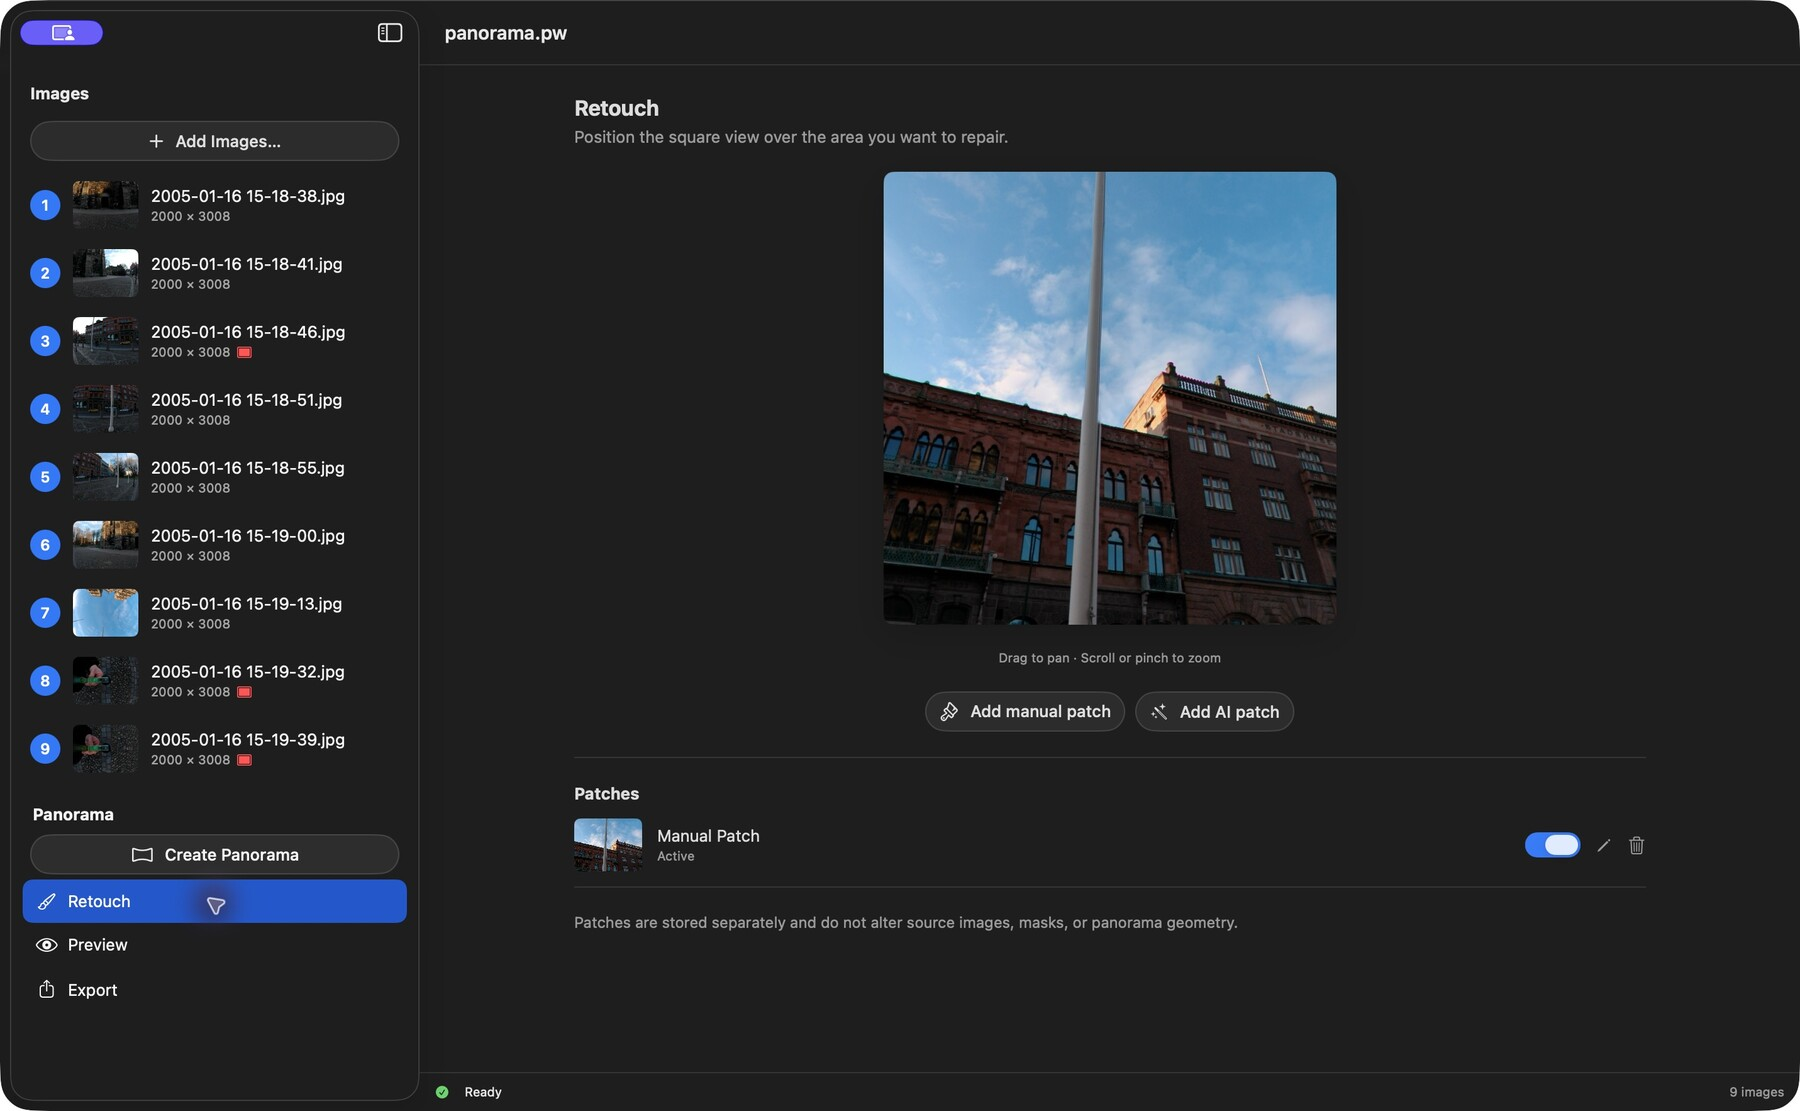
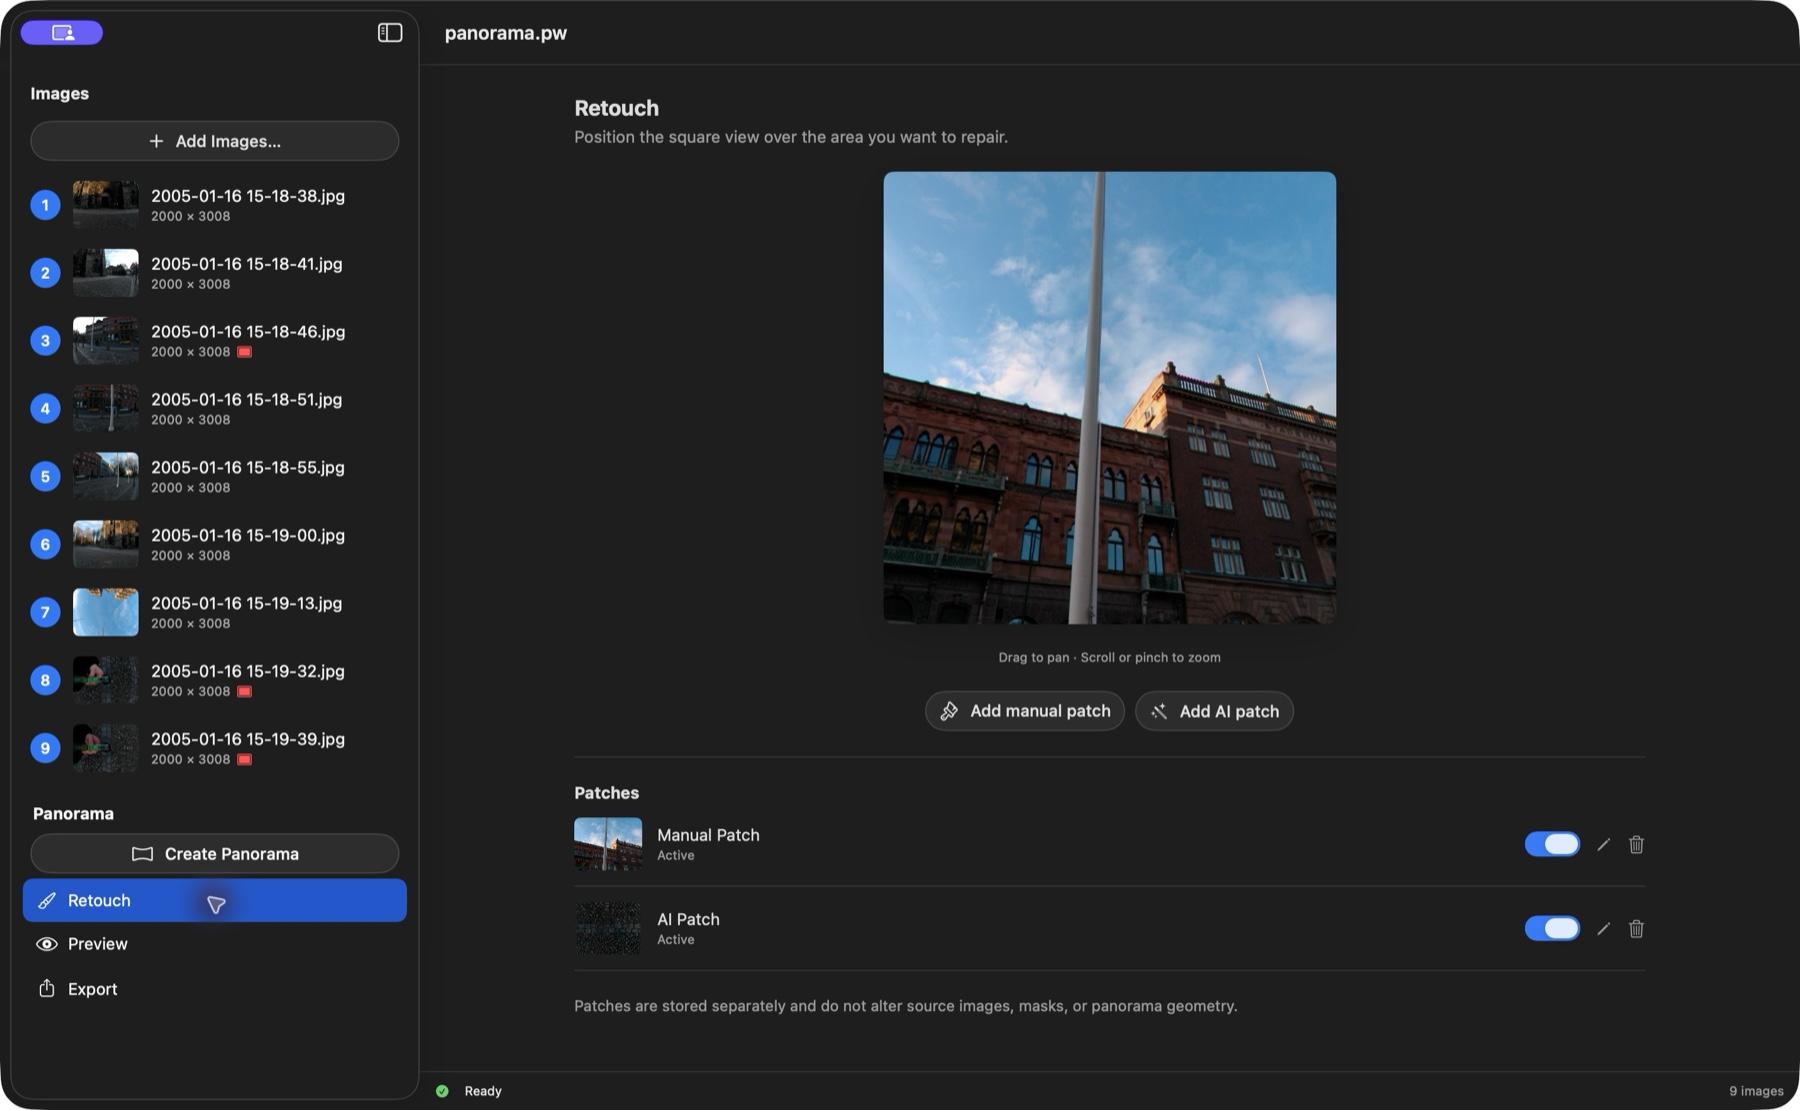
Update help for example A AI ground repair

Changed region(s): [[0.3111, 0.8883, 0.6844, 0.9189], [0.3111, 0.827, 0.6844, 0.8577], [0.84, 0.827, 0.9022, 0.8577]]

diff --git a/docs/examples.md b/docs/examples.md
@@ -20,13 +20,19 @@ The saved panoramas and patches are ready to explore. No API key is needed to vi
 
 ## A — Church square
 
-**9 JPEG photographs · 2 Exclude masks · 1 Include mask · 1 manual patch**
+**9 JPEG photographs · 2 Exclude masks · 1 Include mask · 1 manual patch · 1 AI patch**
 
 ![Example A open in PanoWizard Preview](Images/Examples/a-preview.jpg)
 
 Start here for [source masks](HowTo/Masking/index.html): select `2005-01-16 15-19-32.jpg` or `15-19-39.jpg` and choose **Exclude** to inspect the red masks over the hand and level. Select `2005-01-16 15-18-46.jpg` and choose **Include** to see the green mask preferring an intact pole.
 
 Open **Retouch** to find the saved **Manual Patch**. Its thumbnail locates the repaired pole in Preview. Follow the [manual patch guide](HowTo/ManualPatch/index.html) to compare it with the unpatched view.
+
+A also contains an **AI Patch** repairing the cobblestone ground directly below the camera. Click its thumbnail to look down at the repair, then toggle it off and on to compare. Both saved patches can be inspected without an API key. See the [AI patch guide](HowTo/AIPatch/index.html) before generating a new result.
+
+![Example A with its saved AI ground repair visible](Images/Examples/a-ai-after.jpg)
+
+*The cobblestone repair is generated content, not recovered source pixels.*
 
 <a id="example-b"></a>
 

diff --git a/docs/HowTo/ManualPatch/index.md b/docs/HowTo/ManualPatch/index.md
@@ -4,9 +4,9 @@ A manual patch repairs a small area of an otherwise finished panorama using an e
 
 ## Explore the saved patch in example A
 
-[Download and open example A](../../examples.html#example-a), then choose **Retouch**. The saved **Manual Patch** repairs a local area at the pole. Use its switch to hide or show it; click its thumbnail to locate that exact area in Preview. Return to Retouch to toggle it again.
+[Download and open example A](../../examples.html#example-a), then choose **Retouch**. The saved **Manual Patch** repairs a local area at the pole. Use its switch to hide or show it; click its thumbnail to locate that exact area in Preview. Return to Retouch to toggle it again. A also has an independent **AI Patch** on the ground below the camera; leave that enabled while comparing the manual repair.
 
-![Example A's Retouch workspace and saved Manual Patch](../../Images/Examples/a-retouch.jpg)
+![Example A's Retouch workspace with its saved manual and AI patches](../../Images/Examples/a-retouch.jpg)
 
 ![The same pole view with the manual patch disabled on the left and enabled on the right](../../Images/Examples/a-manual-comparison.jpg)
 

diff --git a/docs/HowTo/AIPatch/index.md b/docs/HowTo/AIPatch/index.md
@@ -52,6 +52,8 @@ Inspect lines, textures, color, and the repair boundary in **After**. AI can inv
 
 *The red mask selects the camera support in Before; After contains the saved generated floor repair. An AI repair is generated content, not recovered source pixels.*
 
+[Example A](../../examples.html#example-a) also includes a saved AI repair of the cobblestone ground below the camera, alongside its manual pole repair. Click the **AI Patch** thumbnail in A to locate it, then compare with the patch switched off and on.
+
 [Example B](../../examples.html#example-b) includes a more ambitious AI reconstruction of the Eiffel Tower from above, alongside a manual patch. Inspect it as generated content, not as evidence of the tower's exact appearance.
 
 In **Patches**, use the switch to hide/show a repair, click its thumbnail to locate it, or use the pencil/trash button to edit/delete it. Finish source corrections first: changing sources or masks clears patches. Save the project to keep an accepted repair.

diff --git a/examples/README.md b/examples/README.md
@@ -2,11 +2,11 @@
 
 Three complete examples for App Store Review and learning PanoWizard. Each folder contains the source photographs and a saved `panorama.pw` project with a finished panorama.
 
-| Example | Scene | Source photographs | Project to open |
-| --- | --- | --- | --- |
-| A | Outdoor square and church | 9 JPEGs | `A/panorama.pw` |
-| B | View over Paris | 8 JPEGs | `B/panorama.pw` |
-| C | Bathroom interior | 7 JPEGs | `C/panorama.pw` |
+| Example | Scene | Source photographs | Saved retouching | Project to open |
+| --- | --- | --- | --- | --- |
+| A | Outdoor square and church | 9 JPEGs | Manual pole repair and AI ground repair | `A/panorama.pw` |
+| B | View over Paris | 8 JPEGs | Manual sky repair and AI ground reconstruction | `B/panorama.pw` |
+| C | Bathroom interior | 7 JPEGs | AI floor repair | `C/panorama.pw` |
 
 Keep each example folder intact. Its source photographs must stay beside
 `panorama.pw`. You can move or copy the whole A, B, or C folder anywhere on your Mac.

diff --git a/docs/getting-started.md b/docs/getting-started.md
@@ -14,7 +14,7 @@ You do not need to stitch again to explore the saved result. Keep the source JPE
 
 Choose **Panorama → Preview**. Drag to look around; scroll or pinch to zoom. Look up at the sky, down at the ground, and around the full circle. **View → Reset View** resets the view.
 
-The [Masks guide](HowTo/Masking/index.html) explains A's red and green source masks. Open **Retouch** to inspect its saved manual patch. For an AI floor repair, open [example C](examples.html#example-c).
+The [Masks guide](HowTo/Masking/index.html) explains A's red and green source masks. Open **Retouch** to inspect its saved manual patch at the pole and AI patch on the cobblestone ground below the camera. Click a patch thumbnail to locate it in Preview, and use its switch to compare before and after. No API key is needed to explore either saved patch. For another AI floor repair, open [example C](examples.html#example-c).
 
 ## 3. Export
 

diff --git a/docs/HowTo/Masking/index.md b/docs/HowTo/Masking/index.md
@@ -38,7 +38,7 @@ In your practice copy, click **Create Panorama** again. Inspect the ground and p
 
 ![The saved panorama in example A](../../Images/Examples/a-panorama.jpg)
 
-*The downloadable finished A project includes both source masks and a later manual patch. Rebuilding applies the masks but removes that patch; the two results need not look identical.*
+*The downloadable finished A project includes source masks, a manual patch at the pole, and an AI patch on the ground. Rebuilding applies the masks but removes both retouch patches; the two results need not look identical.*
 
 For more masks, inspect [example B](../../examples.html#example-b): each of its eight source images has an Exclude mask.
 
